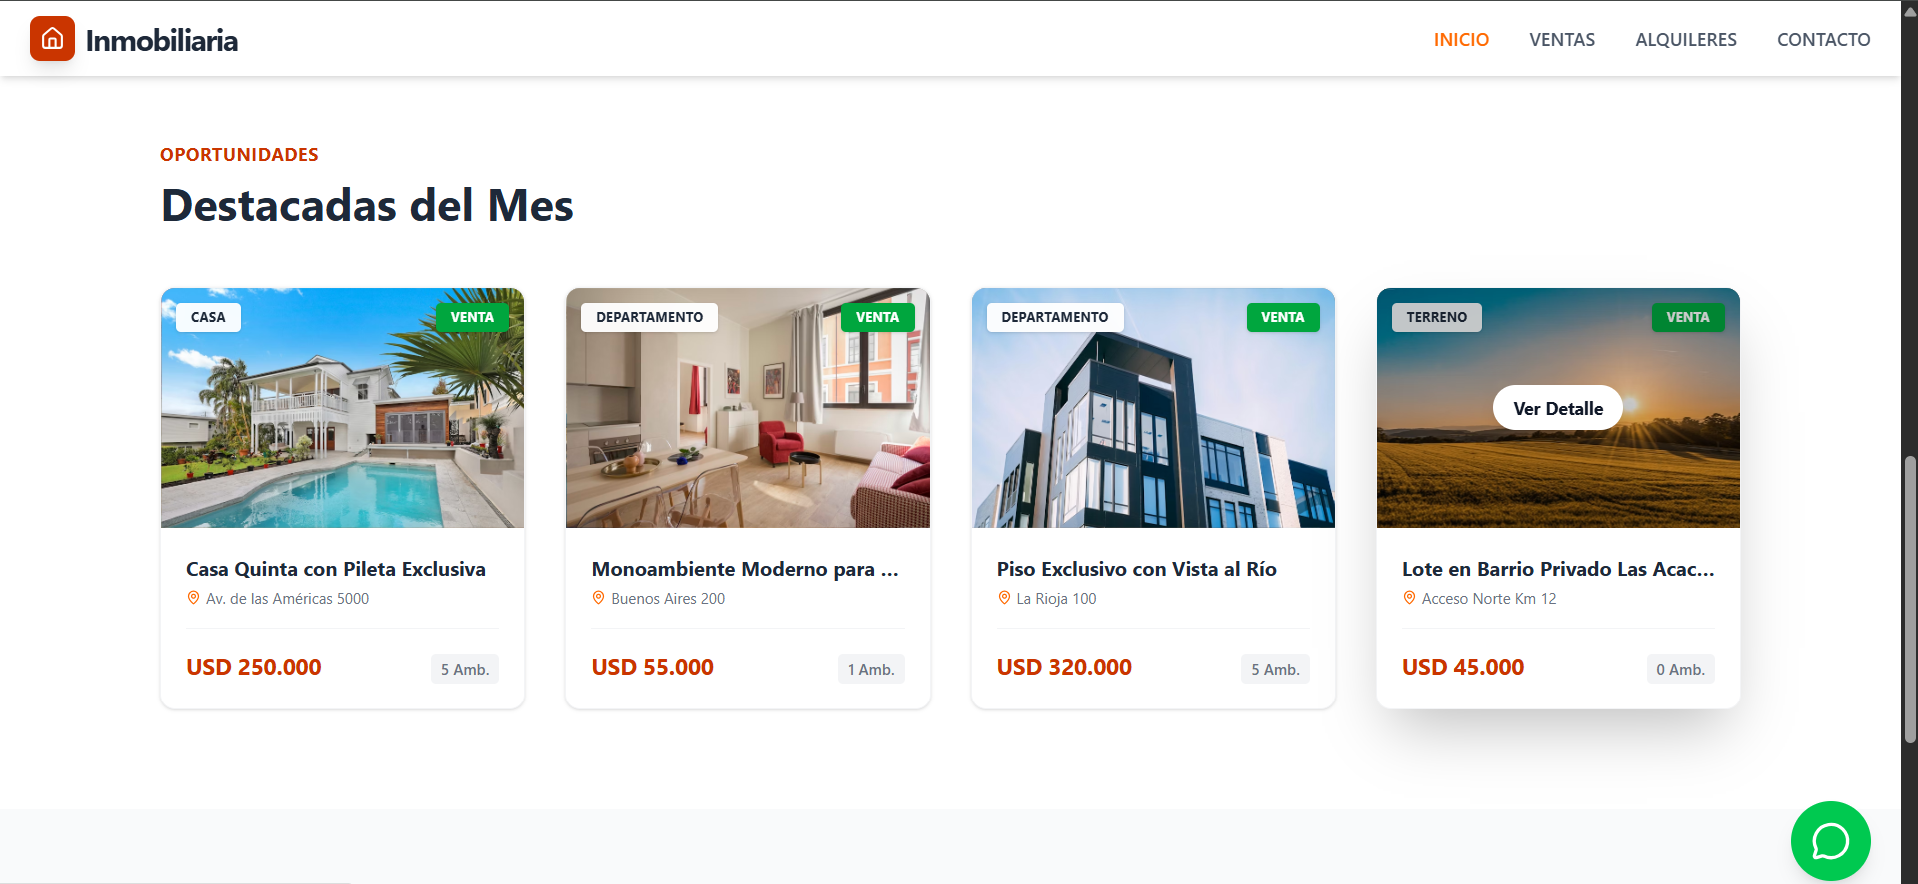
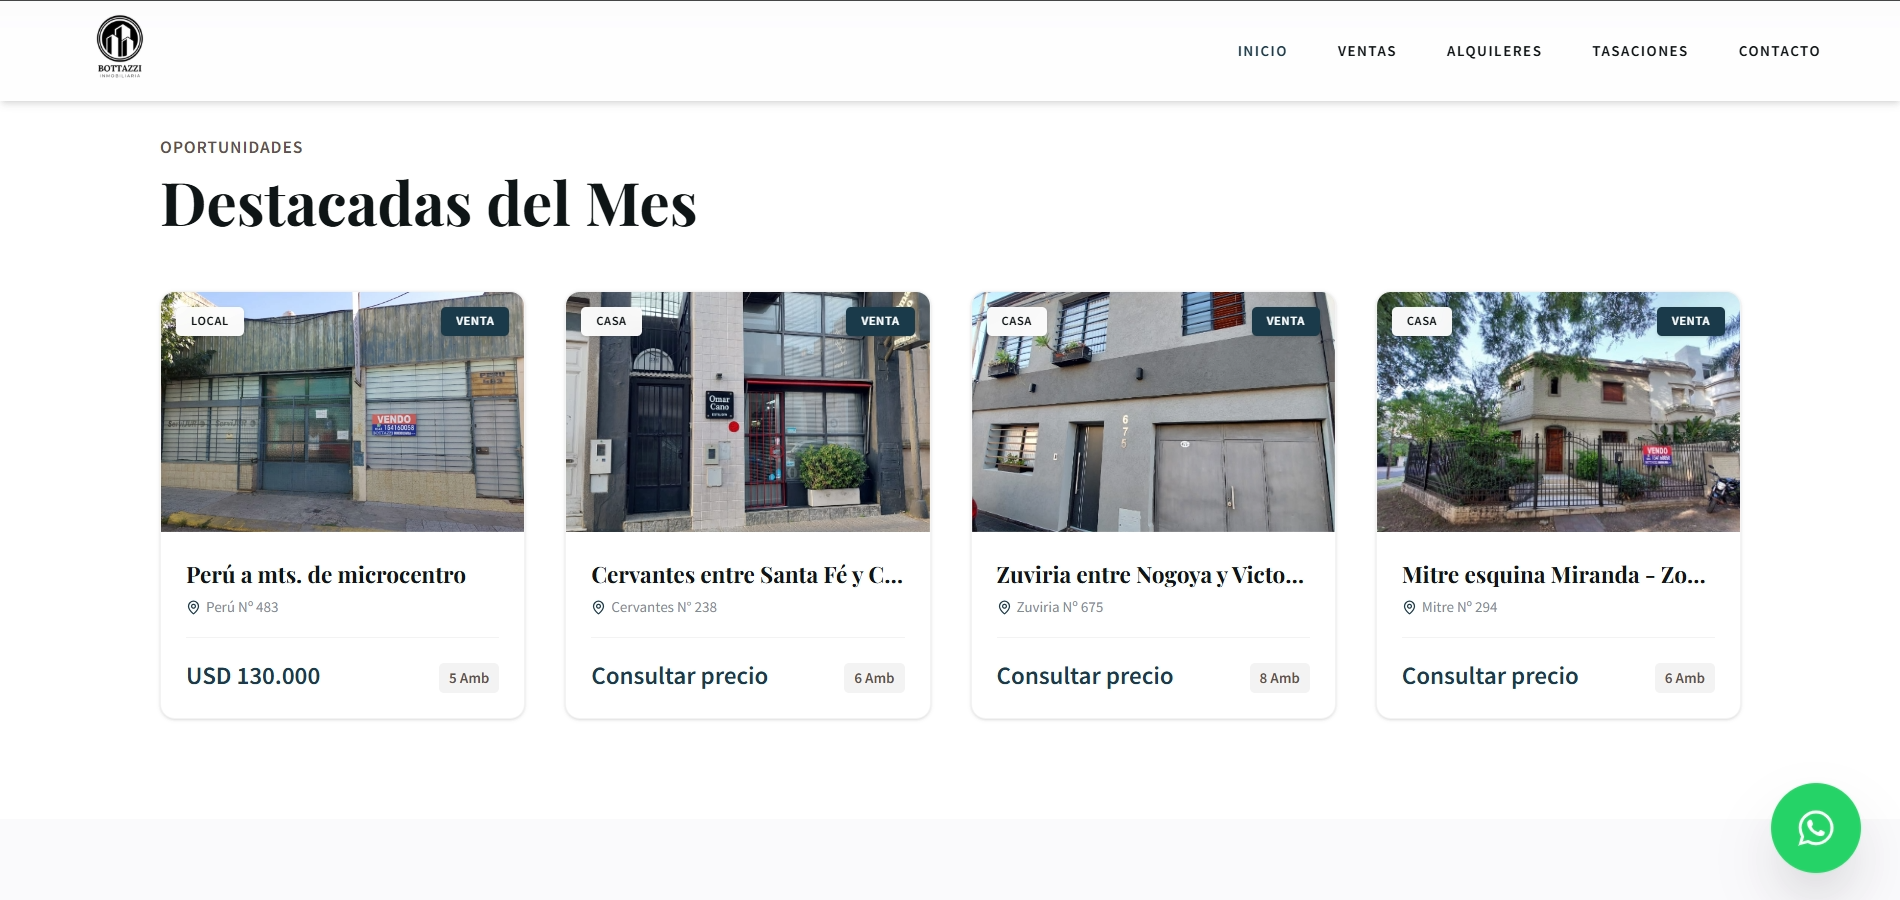
Fix: actualizacion de imagenes

diff --git a/src/data/projects.js b/src/data/projects.js
@@ -64,7 +64,7 @@ const projects = [
   },
   {
     id: 2,
-    title: "Bottazzi Inmobiliaria | Plataforma Digital End-to-End",
+    title: "Bottazzi Inmobiliaria | Plataforma Digital",
     tags: [".NET 9", "React 19", "PostgreSQL", "Clean Architecture", "Cloudinary"],
     cover: "/images/proyecto_inmobiliaria.png",
     shortDesc: "Ecosistema inmobiliario profesional: Gestión administrativa, catálogo dinámico y optimización SEO.",
@@ -89,16 +89,20 @@ const projects = [
     images: [
       "/images/proyecto_inmobiliaria.png",
       "/images/proyecto_inmobiliaria/propiedadesdestacadas.png",
-      "/images/proyecto_inmobiliaria/alquileres.jpg",
-      "/images/proyecto_inmobiliaria/propiedadetalle.png",
-      "/images/proyecto_inmobiliaria/contacto.jpg",
-      "/images/proyecto_inmobiliaria/accesoadministrador.jpg",
-      "/images/proyecto_inmobiliaria/paneldecontroladmin.jpg",
-      "/images/proyecto_inmobiliaria/mispropiedades.jpg",
-      "/images/proyecto_inmobiliaria/editarpropiedad.jpg",
-      "/images/proyecto_inmobiliaria/editarpropiedad2.jpg"
+      "/images/proyecto_inmobiliaria/ventas.png",
+      "/images/proyecto_inmobiliaria/propiedadetalles.png",
+      "/images/proyecto_inmobiliaria/propiedadetalles2.png",
+      "/images/proyecto_inmobiliaria/tasaciones.png",
+      "/images/proyecto_inmobiliaria/contacto.png",
+      "/images/proyecto_inmobiliaria/contacto2.png",
+      "/images/proyecto_inmobiliaria/footer.png",
+      "/images/proyecto_inmobiliaria/accesoadministrador.png",
+      "/images/proyecto_inmobiliaria/paneldecontroladmin.png",
+      "/images/proyecto_inmobiliaria/mispropiedades.png",
+      "/images/proyecto_inmobiliaria/nuevapropiedad.png",
+      "/images/proyecto_inmobiliaria/nuevapropiedad2.png",
     ],
-    demo: "https://inmobiliariabottazzi.vercel.app/",
+    demo: "https://inmobiliariabottazzi.com.ar/",
     github: "https://github.com/Brian13b/inmobiliaria_frontend" 
   },
   {